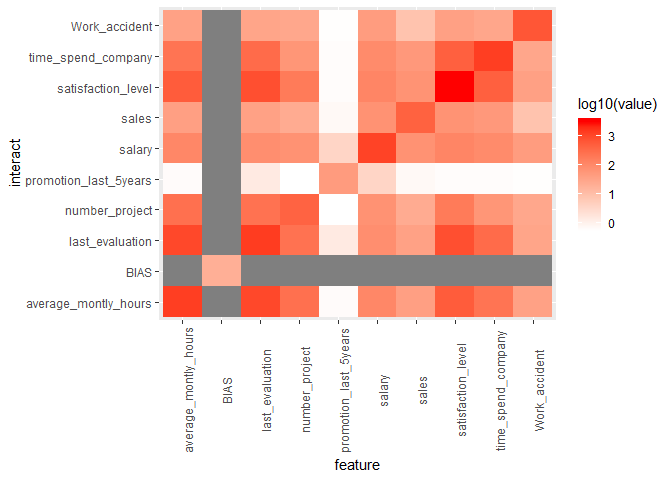
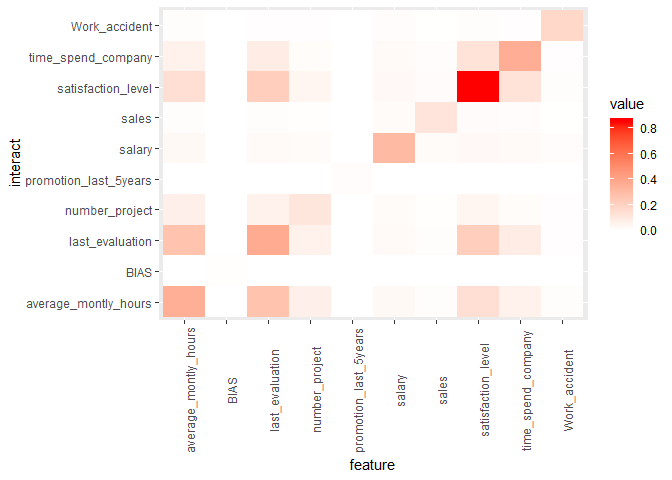
modify 210: feature interaction calcurated by not log-sum but observation average.

diff --git a/210_Sensitivity_analysis_using_SHAPley_value.html b/210_Sensitivity_analysis_using_SHAPley_value.html
@@ -299,17 +299,18 @@ png
   ..$ : NULL
   ..$ : chr [1:10] &quot;satisfaction_level&quot; &quot;last_evaluation&quot; &quot;number_project&quot; &quot;average_montly_hours&quot; ...
   ..$ : chr [1:10] &quot;satisfaction_level&quot; &quot;last_evaluation&quot; &quot;number_project&quot; &quot;average_montly_hours&quot; ...
-accum.interaction &lt;- apply(abs(predinteraction.xgb), 2:3, sum)
-accum.interaction %&gt;% 
+mea.interaction &lt;- apply(abs(predinteraction.xgb), 2:3, sum) / NROW(predinteraction.xgb)
+
+mea.interaction %&gt;% 
   data.frame %&gt;% 
   rownames_to_column(&quot;feature&quot;) %&gt;% 
   gather(key = interact, value = value, -feature) %&gt;% 
   mutate_at(vars(feature, interact), as.factor) %&gt;% 
-  ggplot(aes(x = feature, y = interact, fill = log10(value))) +
+  ggplot(aes(x = feature, y = interact, fill = value)) +
   geom_tile() +
   scale_fill_gradient(low=&quot;white&quot;,high=&quot;red&quot;) +
   theme(axis.text.x = element_text(angle = 90))</code></pre>
[2 lines of base64/hex data omitted]
 </div>
 
 

diff --git a/210_Sensitivity_analysis_using_SHAPley_value.md b/210_Sensitivity_analysis_using_SHAPley_value.md
@@ -152,13 +152,14 @@ predinteraction.xgb %>% str
   ..$ : NULL
   ..$ : chr [1:10] "satisfaction_level" "last_evaluation" "number_project" "average_montly_hours" ...
   ..$ : chr [1:10] "satisfaction_level" "last_evaluation" "number_project" "average_montly_hours" ...
-accum.interaction <- apply(abs(predinteraction.xgb), 2:3, sum)
-accum.interaction %>% 
+mea.interaction <- apply(abs(predinteraction.xgb), 2:3, sum) / NROW(predinteraction.xgb)
+
+mea.interaction %>% 
   data.frame %>% 
   rownames_to_column("feature") %>% 
   gather(key = interact, value = value, -feature) %>% 
   mutate_at(vars(feature, interact), as.factor) %>% 
-  ggplot(aes(x = feature, y = interact, fill = log10(value))) +
+  ggplot(aes(x = feature, y = interact, fill = value)) +
   geom_tile() +
   scale_fill_gradient(low="white",high="red") +
   theme(axis.text.x = element_text(angle = 90))
